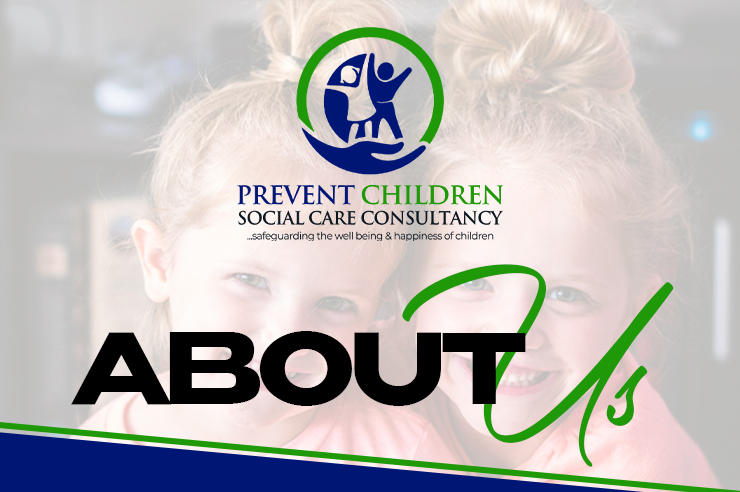
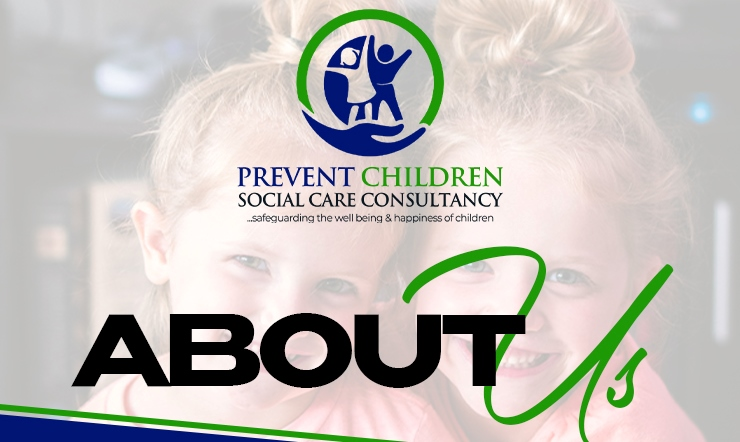
changing the images background

diff --git a/src/components/Pages/Services.jsx b/src/components/Pages/Services.jsx
@@ -1,6 +1,7 @@
 import React from 'react';
 import MainLayouts from '../Layouts/MainLayouts';
 import { Link } from 'react-router-dom';
+import OURSERVICES from '../../assets/OURSERVICES.jpg'
 
 
 const ServiceCard = ({ imageUrl, title, description, link }) => {
@@ -20,10 +21,15 @@ const Services = () => {
     <MainLayouts>
       <div className='mt-56 relative overflow-hidden'>
         <img
-          src="https://img.freepik.com/free-photo/standard-quality-control-concept-m_23-2150041866.jpg?w=740&t=st=1708797464~exp=1708798064~hmac=ace44481cda9392e555e77f990ff563b0d0d3b9459cf13354e4f4d424f8273fe"
+          src={OURSERVICES}
           alt="About Us Banner"
           className="w-full object-cover"
-          style={{ height: '550px', minWidth: '100vw', position: 'relative', left: '50%', transform: 'translateX(-50%)'}}
+          style={{ height: '550px', 
+          minWidth: '100vw', 
+          position: 'relative', 
+          left: '50%', 
+          transform: 'translateX(-50%)'
+        }}
         />
         <div className="container mx-auto px-4 mt-8">
             <h2 className='text-3xl mt-8 text-blue-950 text-center font-bold'>Our Services</h2>
